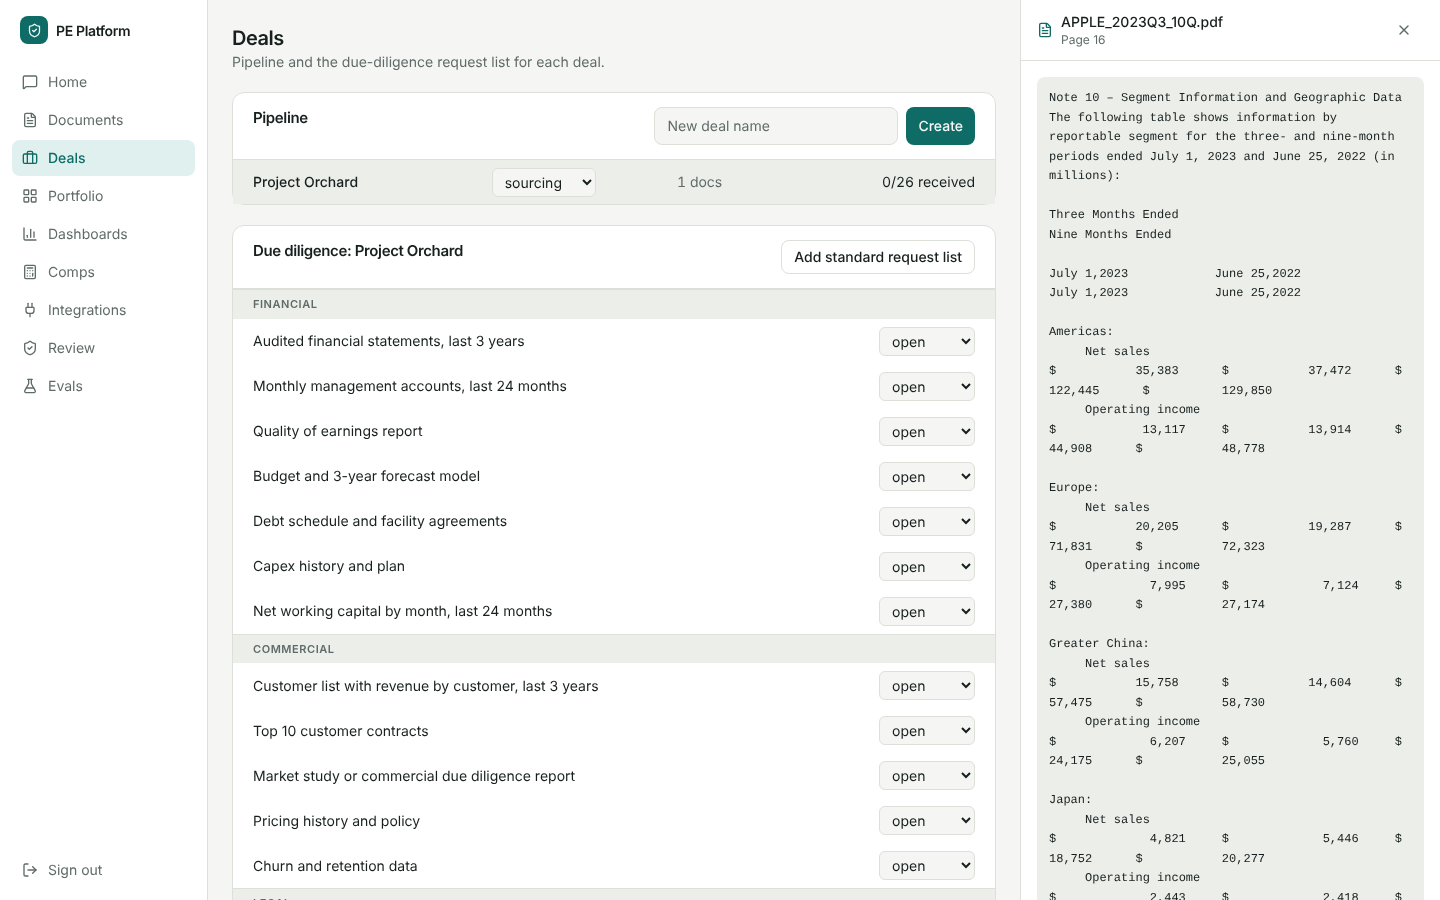
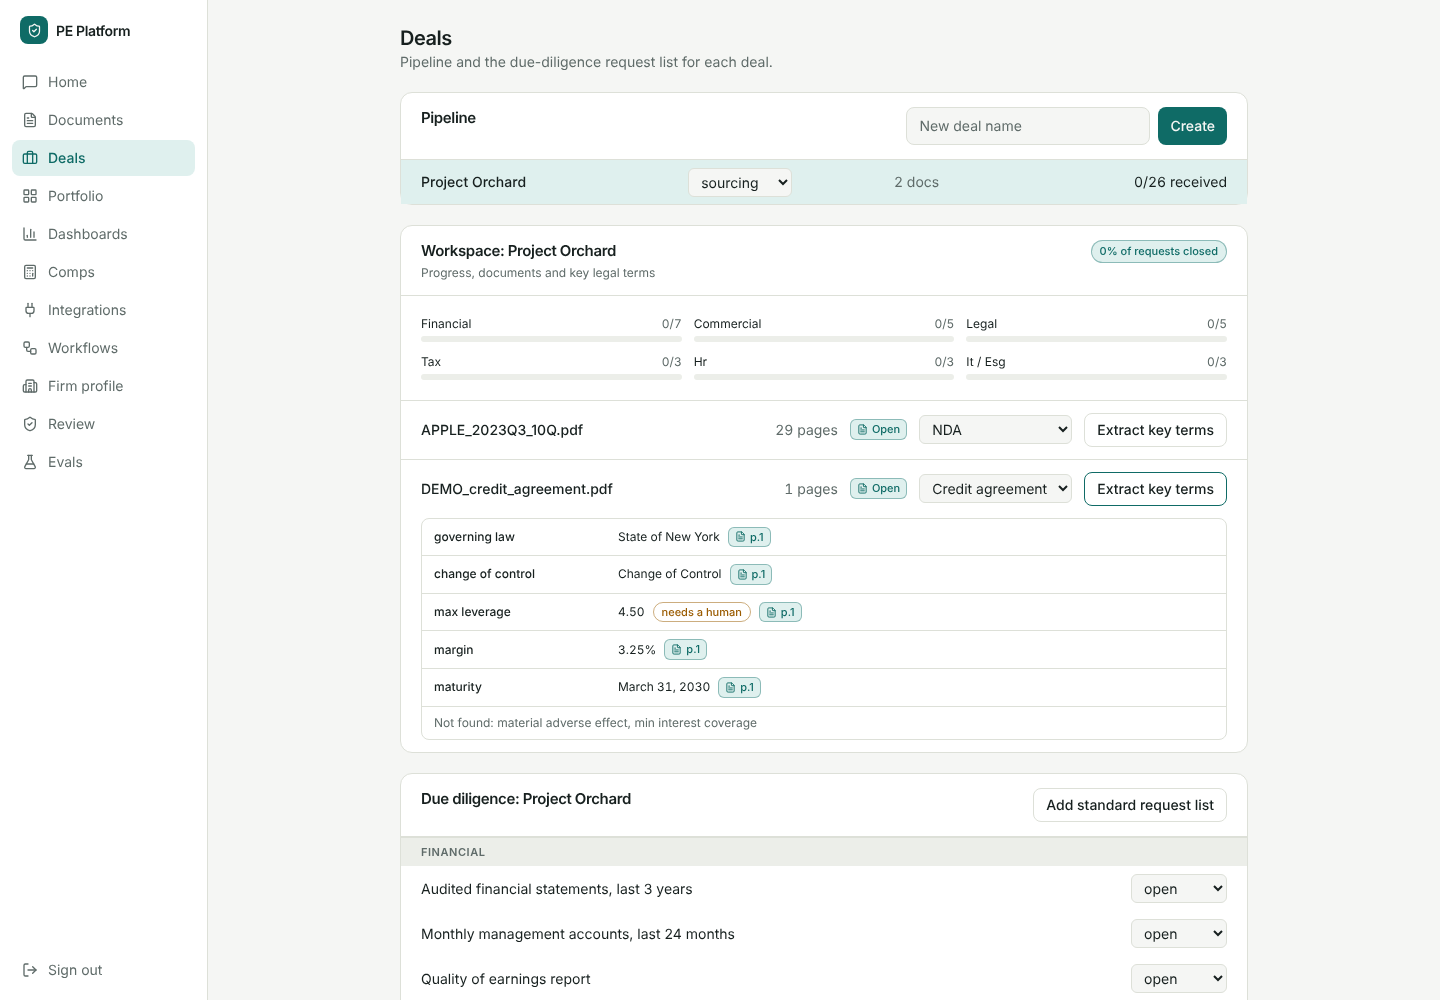
UI: deal workspace with diligence progress and legal-term extraction
Claude-Session: https://claude.ai/code/session_01UJT41KsMGqU6qYoKxNBJjn

diff --git a/apps/web/src/DealWorkspace.tsx b/apps/web/src/DealWorkspace.tsx
@@ -1,0 +1,65 @@
+import { useState } from "react";
+import { api, api2, LegalOut } from "./api";
+import { useLoad } from "./hooks";
+import { SourceChip } from "./source";
+import { Badge, Button, Card, CardHead, Empty, ErrorLine } from "./ui";
+
+const TYPES = [["nda", "NDA"], ["spa", "SPA"], ["credit", "Credit agreement"]] as const;
+
+/** Everything about one deal in one place: diligence progress, its documents, and key legal terms per document. */
+export function DealWorkspace({ deal }: { deal: string }) {
+  const docs = useLoad(() => api.documents().then((d) => d.filter((x) => x.deal === deal)), [deal]);
+  const sum = useLoad(() => api2.ddSummary(deal).catch(() => null), [deal]);
+  const [legal, setLegal] = useState<Record<string, LegalOut>>({});
+  const [type, setType] = useState<Record<string, string>>({});
+  const [err, setErr] = useState("");
+  const run = (id: string) => {
+    setErr("");
+    api2.legalTerms(id, type[id] ?? "nda").then((r) => setLegal({ ...legal, [id]: r })).catch((e) => setErr(String(e)));
+  };
+  const cats = sum.data ? Object.entries(sum.data.by_category) : [];
+  return (
+    <Card>
+      <CardHead title={`Workspace: ${deal}`} hint="Progress, documents and key legal terms" right={sum.data?.pct_complete != null && <Badge tone="acc">{sum.data.pct_complete}% of requests closed</Badge>} />
+      <ErrorLine e={err || docs.error} />
+      {cats.length > 0 && (
+        <div className="grid gap-3 border-b border-line p-5 sm:grid-cols-3">
+          {cats.map(([c, n]) => {
+            const total = n.open + n.received + n.waived;
+            return (
+              <div key={c}><p className="mb-1 flex justify-between text-xs"><span className="capitalize">{c.replace("_", " / ")}</span><span className="tnum text-mut">{total - n.open}/{total}</span></p>
+                <div className="h-1.5 overflow-hidden rounded-full bg-sunk"><div className="h-full bg-acc" style={{ width: `${(100 * (total - n.open)) / total}%` }} /></div></div>
+            );
+          })}
+        </div>
+      )}
+      {docs.data?.length === 0 && <Empty>No documents tagged to this deal yet. Upload with the deal name or import from an integration.</Empty>}
+      <ul className="divide-y divide-line">
+        {docs.data?.map((d) => (
+          <li key={d.id} className="px-5 py-3">
+            <div className="flex flex-wrap items-center gap-3 text-sm">
+              <span className="min-w-0 flex-1 truncate font-medium">{d.filename}</span><span className="tnum text-mut">{d.n_pages} {d.n_pages === 1 ? "page" : "pages"}</span>
+              <SourceChip docId={d.id} page={1} quote="" label="Open" />
+              <select aria-label={`Document type of ${d.filename}`} value={type[d.id] ?? "nda"} onChange={(e) => setType({ ...type, [d.id]: e.target.value })} className="rounded-md border border-line bg-bg px-2 py-1">
+                {TYPES.map(([v, l]) => <option key={v} value={v}>{l}</option>)}</select>
+              <Button onClick={() => run(d.id)}>Extract key terms</Button>
+            </div>
+            {legal[d.id] && (
+              <div className="mt-3 rounded-lg border border-line">
+                {legal[d.id].findings.length === 0 && <p className="px-3 py-2 text-xs text-mut">No terms matched. Nothing was guessed.</p>}
+                {legal[d.id].findings.map((f, i) => (
+                  <div key={i} className="flex flex-wrap items-center gap-2 border-b border-line px-3 py-2 text-xs last:border-0">
+                    <span className="w-44 shrink-0 font-medium">{f.term.replace(/_/g, " ")}</span><span className="tnum">{f.value}</span>
+                    {f.needs_review && <Badge tone="warn">needs a human</Badge>}
+                    <SourceChip docId={f.document_id} page={f.page} quote={f.quote} />
+                  </div>
+                ))}
+                {legal[d.id].absent.length > 0 && <p className="px-3 py-2 text-xs text-mut">Not found: {legal[d.id].absent.map((a) => a.replace(/_/g, " ")).join(", ")}</p>}
+              </div>
+            )}
+          </li>
+        ))}
+      </ul>
+    </Card>
+  );
+}

diff --git a/apps/web/src/api.ts b/apps/web/src/api.ts
@@ -1,4 +1,4 @@
-export interface DocumentInfo { id: string; filename: string; n_pages: number }
+export interface DocumentInfo { id: string; filename: string; n_pages: number; deal?: string | null }
 export interface Hit { document_id: string; page: number; score: number; snippet: string }
 export interface Claim { text: string; document_id: string; page: number; quote: string; reason?: string }
 export interface AskResult { status: string; detail: string; claims: Claim[]; rejected: Claim[] }
@@ -58,6 +58,8 @@ export interface AgentRunOut {
 export interface WorkflowInfo { name: string; description: string; inputs: Record<string, string>; steps: { id: string; tool: string }[] }
 export interface FirmRow { id: number; key: string; value: string; status: string; source: { document_id: string; page: number; quote: string } }
 export interface FirmOut { profile: Record<string, FirmRow[]>; coverage: { known: number; total: number; missing: string[] } }
+export interface DDSummary { total: number; closed: number; pct_complete: number | null; by_category: Record<string, { open: number; received: number; waived: number }> }
+export interface LegalOut { doc_type: string; absent: string[]; findings: { term: string; value: string; page: number; quote: string; needs_review: boolean; document_id: string }[] }
 export interface Report {
   breaches: Breach[];
   companies: { id: number; name: string; kpis: { metric: string; period: string; value: string; unit: string; sources: { document_id: string; page: number }[] }[] }[];
@@ -92,6 +94,8 @@ export const api2 = {
   firm: () => call<FirmOut>("/firm-knowledge?include_pending=true"),
   firmTerms: () => call<{ key: string; group: string; label: string; hint: string }[]>("/firm-knowledge/terms"),
   firmReview: (id: number, status: string) => call<unknown>(`/firm-knowledge/${id}/review`, "POST", { status }),
+  ddSummary: (deal: string) => call<DDSummary>(`/dd/summary?deal=${encodeURIComponent(deal)}`),
+  legalTerms: (docId: string, docType: string) => call<LegalOut>(`/documents/${docId}/legal-terms?doc_type=${docType}`),
   conflicts: () => call<Conflict[]>("/facts/conflicts"),
   evals: () => call<EvalRunRow[]>("/evals?limit=200"),
 };

diff --git a/apps/web/src/Panels.tsx b/apps/web/src/Panels.tsx
@@ -4,6 +4,7 @@ import { useLoad } from "./hooks";
 import { SourceChip } from "./source";
 import { Badge, Button, Card, CardHead, Empty, ErrorLine, Input } from "./ui";
 import { useState } from "react";
+import { DealWorkspace } from "./DealWorkspace";
 
 const Page = ({ title, hint, children }: { title: string; hint?: string; children: React.ReactNode }) => (
   <div className="mx-auto max-w-4xl space-y-5 p-6">
@@ -81,6 +82,7 @@ export function Deals() {
           </tbody>
         </table>
       </Card>
+      {sel && <DealWorkspace deal={sel} />}
       {sel && (
         <Card>
           <CardHead title={`Due diligence: ${sel}`} right={<Button onClick={() => api2.ddSeed(sel).then(dd.reload).catch(fail)}>Add standard request list</Button>} />
